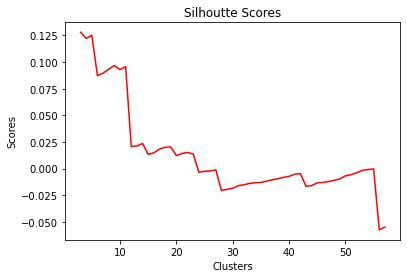
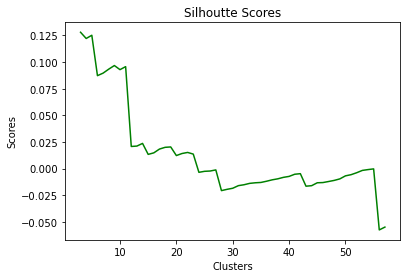
Minor changes

diff --git a/project2.py b/project2.py
@@ -38,13 +38,19 @@ def run_kmeans():
     for i in range(3, 58):
         clusters.append(i)
         kmean = KMeans(n_clusters = i).fit(X)
+        score = silhouette_score(X, kmean.labels_, metric='manhattan')
+        Sscore.append(score)
         if(i == 3):
             kmeans3 = kmean
+            print("Silhoutte Score at 3 clusters: ",  score)
         elif(i == 33):
             kmeans33 = kmean
+            print("Silhoutte Score at 3 clusters: ",  score)
         elif(i == 57):
             kmeans57 = kmean
-        Sscore.append(silhouette_score(X, kmean.labels_, metric='manhattan'))
+            print("Silhoutte Score at 3 clusters: ",  score)
+        
+        
         
 
     plot_silhoutteScore(clusters,Sscore)
@@ -57,13 +63,17 @@ def run_aggClustering():
     for i in range(3,58):
         clusters.append(i)
         agg = AgglomerativeClustering(n_clusters = i).fit(X.toarray())
-        Sscore.append(silhouette_score(X, agg.labels_, metric='manhattan'))
+        score = silhouette_score(X, agg.labels_, metric='manhattan')
+        Sscore.append(score)
         if(i == 3):
             agg3 = agg
+            print("Silhoutte Score at 3 clusters: ",  score)
         elif(i == 33):
             agg33 = agg
+            print("Silhoutte Score at 33 clusters: ",  score)
         elif(i == 57):
             agg57 = agg
+            print("Silhoutte Score at 57 clusters: ",  score)
     
     plot_silhoutteScore(clusters, Sscore)
     plot_ariScores(agg3.labels_, agg33.labels_, agg57.labels_)
@@ -73,7 +83,7 @@ def plot_silhoutteScore(X, y):
     plt.title("Silhoutte Scores")
     plt.xlabel("Clusters")
     plt.ylabel("Scores")
-    plt.plot(X,y,color='red')
+    plt.plot(X,y,color='green')
     plt.show()
 
 def plot_ariScores(label1,label2,label3):
